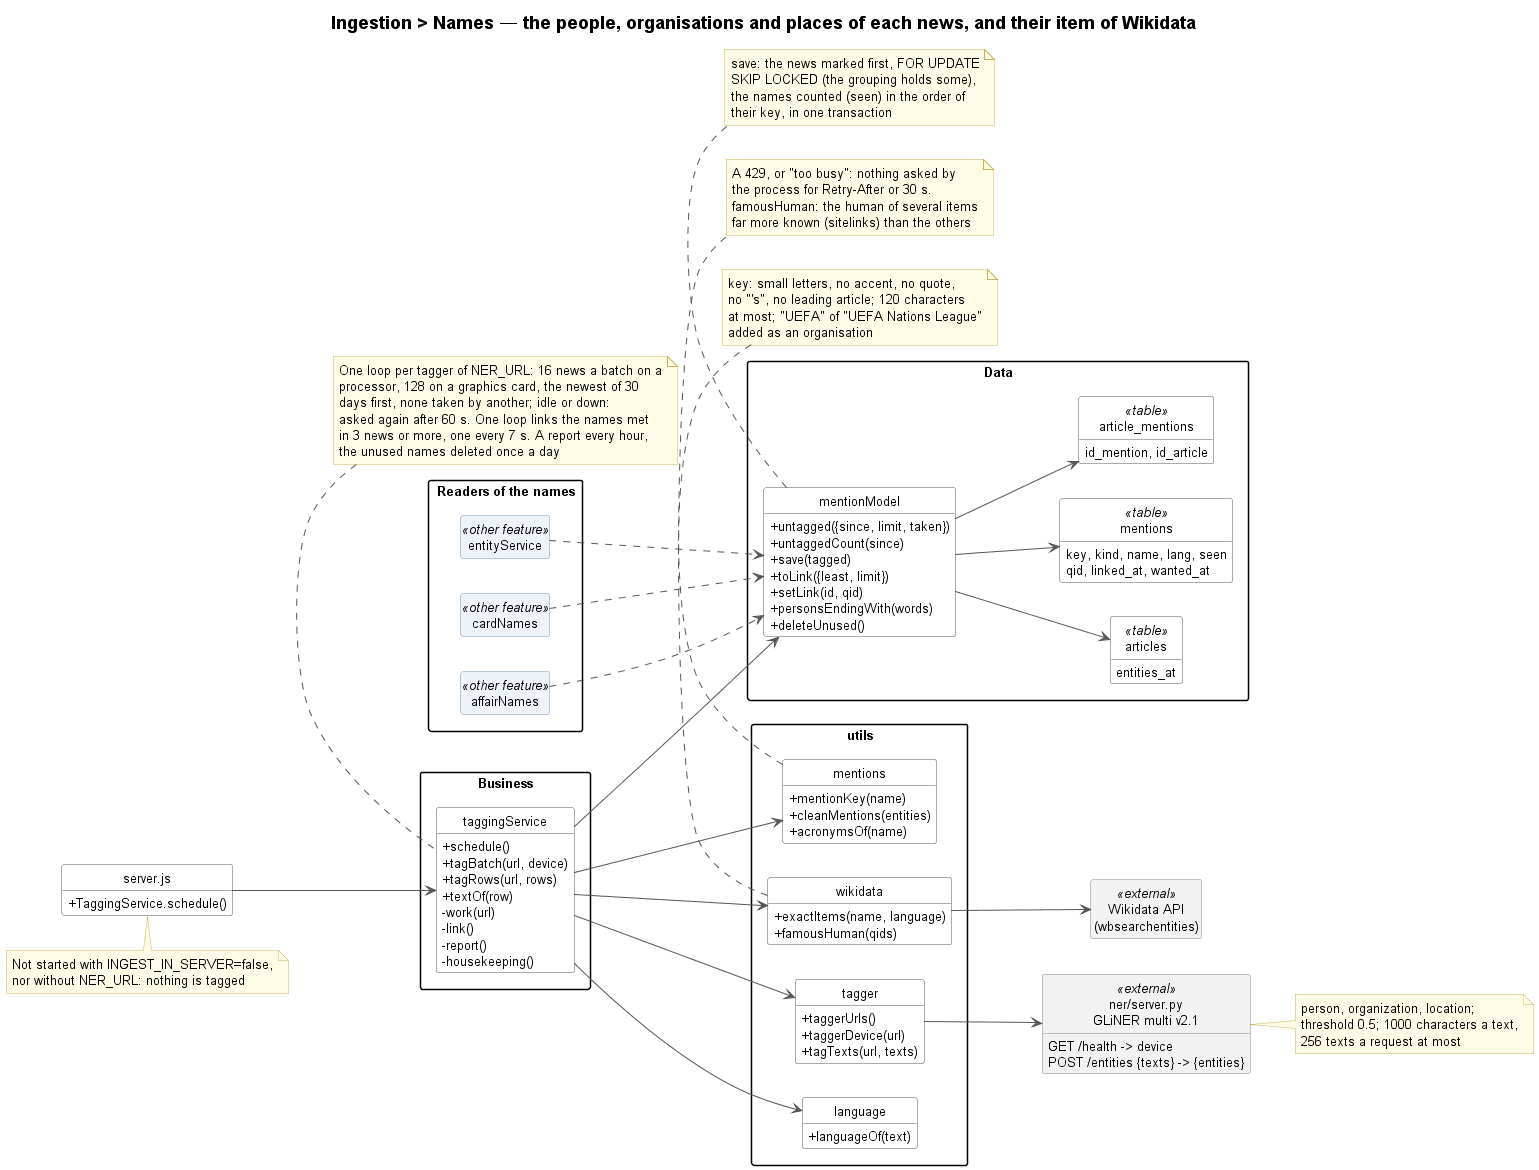
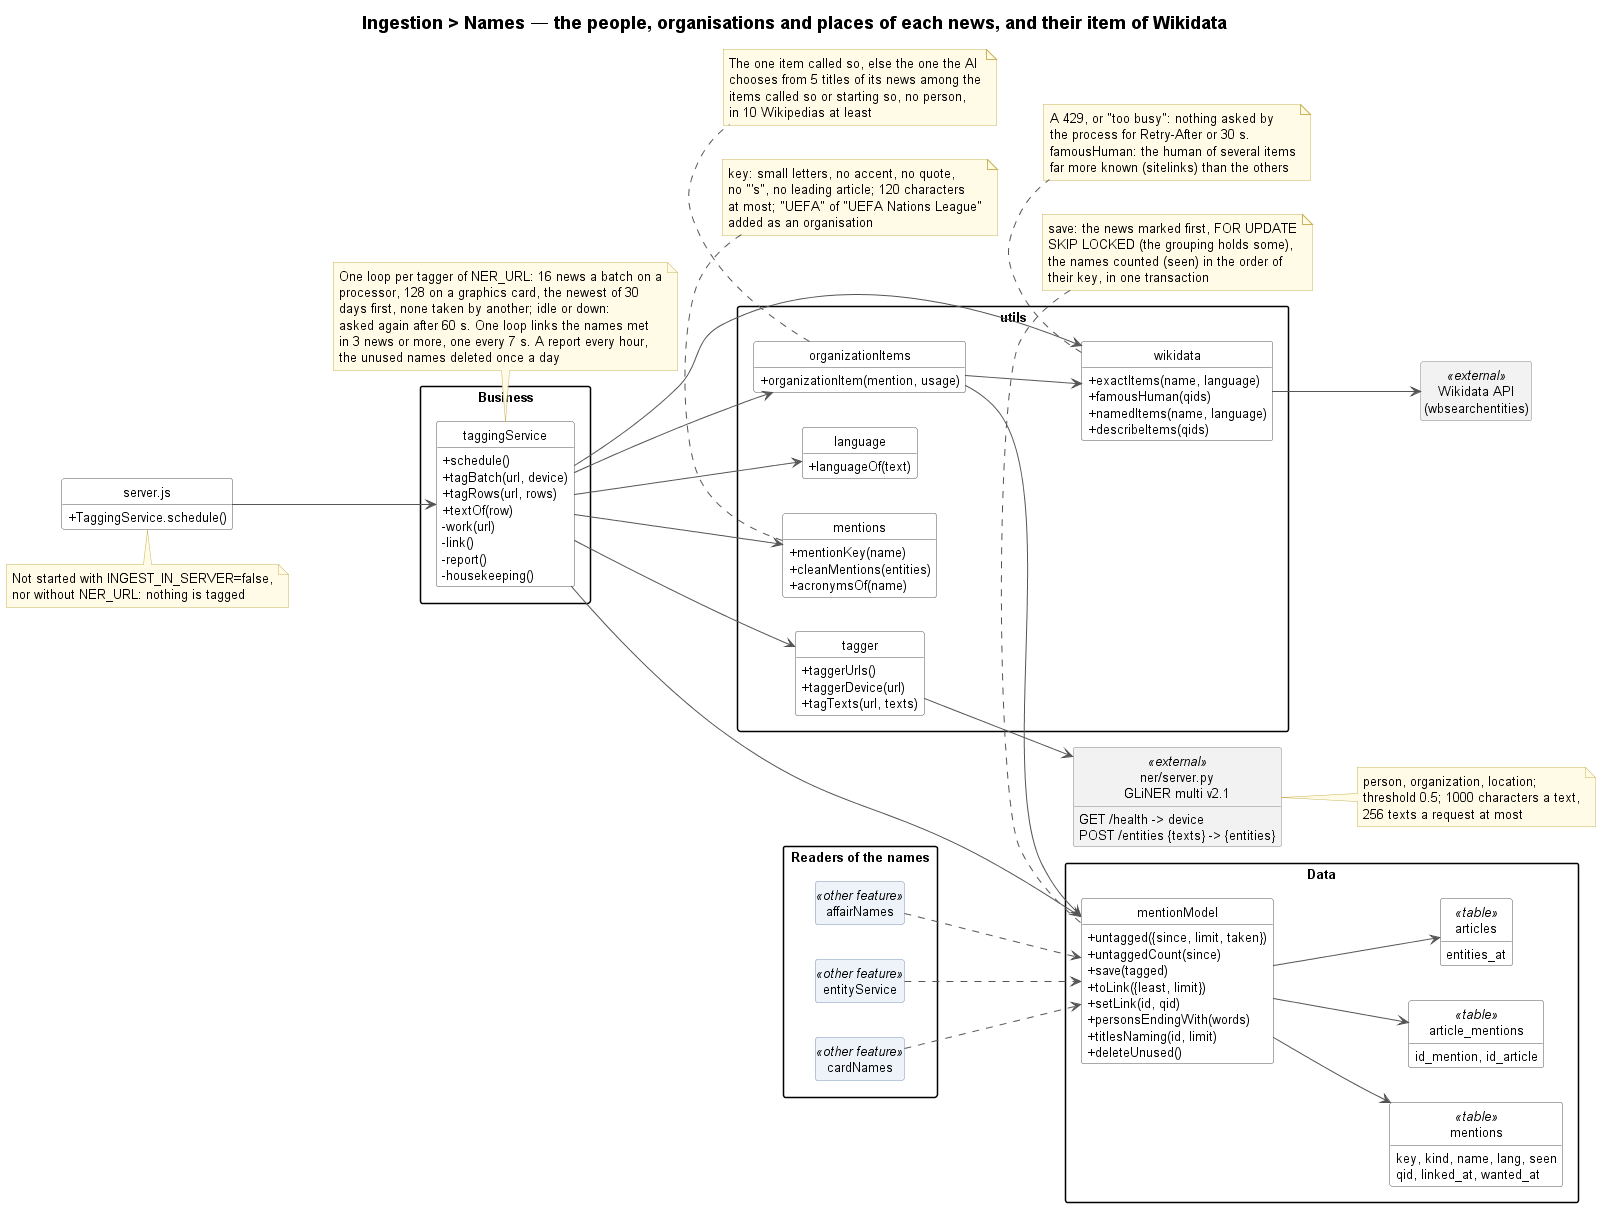
An organisation told apart by the AI among its namesakes of Wikidata
One item called so left FIFA, Juventus and Liverpool unlinked: the famous
club comes first under a longer name ("Juventus FC"), the city before it.
An organisation is now the one item called so, else the one the AI chooses
from 5 titles of news naming it among the items called so or whose name
starts so, no person, kept in 10 Wikipedias at least. On 60 organisations
never linked: 45 of 50 right, 44 of 46 with that floor. About 390 tokens a
name, counted in the hourly report of the tagger.

diff --git a/tests/entities/test.organization-items.js b/tests/entities/test.organization-items.js
@@ -1,0 +1,91 @@
+//
+//  Author: Fabian Rostello
+//  Date: 18.10.2026
+//  File: test.organization-items.js
+//  Description: The item of Wikidata an organisation is: the one called so when it is the only one, else
+//               the one the AI chooses from the titles of its news, in 10 Wikipedias at least
+//
+
+import {beforeEach, describe, expect, it, jest} from '@jest/globals';
+
+const namedItems = jest.fn();
+const describeItems = jest.fn();
+const ollamaJson = jest.fn();
+const titlesNaming = jest.fn(async () => ['Woltemade mit Juventus gegen Lazio', 'Juventus, Tudor: "Siamo in crescita"']);
+const wikidata = await import('../../services/utils/wikidata.js');
+jest.unstable_mockModule('../../config/db.js', () => ({prisma: {}}));
+jest.unstable_mockModule('../../services/utils/wikidata.js', () => ({...wikidata, namedItems, describeItems}));
+jest.unstable_mockModule('../../services/utils/ollama.js', () => ({ollamaJson, newUsage: () => ({calls: 0, input: 0, output: 0})}));
+jest.unstable_mockModule('../../models/mention-model.js', () => ({MentionModel: {titlesNaming}}));
+const {organizationItem, organizationPrompt} = await import('../../services/utils/organization-items.js');
+
+const row = {id: 7, name: 'Juventus', lang: 'it'};
+const JUVENTUS = [
+    {qid: 'Q1422', label: 'Juventus FC', description: 'association football club in Turin, Italy', links: 133, human: false},
+    {qid: 'Q63180', label: 'Kamil Glik', description: 'Polish association football player', links: 40, human: true},
+    {qid: 'Q1138834', label: 'Juventus', description: 'Lithuanian basketball team', links: 15, human: false},
+];
+
+beforeEach(() => {
+    namedItems.mockReset();
+    describeItems.mockReset();
+    ollamaJson.mockReset();
+    titlesNaming.mockClear();
+});
+
+describe('organizationItem', () => {
+    it('should take the one item called so without asking the AI', async () => {
+        namedItems.mockResolvedValueOnce([{qid: 'Q130879', exact: true}, {qid: 'Q9', exact: false}]);
+        expect(await organizationItem({id: 1, name: 'Reuters', lang: 'en'})).toBe('Q130879');
+        expect(describeItems).not.toHaveBeenCalled();
+        expect(ollamaJson).not.toHaveBeenCalled();
+    });
+
+    it('should let the AI choose among the items called so or starting so, no person among them', async () => {
+        namedItems.mockResolvedValueOnce([{qid: 'Q1422', exact: false}, {qid: 'Q63180', exact: true}, {qid: 'Q1138834', exact: true}]);
+        describeItems.mockResolvedValueOnce(JUVENTUS);
+        ollamaJson.mockResolvedValueOnce({n: 1});
+        expect(await organizationItem(row)).toBe('Q1422');
+        expect(namedItems).toHaveBeenCalledWith('Juventus', 'it');
+        expect(titlesNaming).toHaveBeenCalledWith(7, 5);
+        const prompt = ollamaJson.mock.calls[0][0];
+        expect(prompt).toContain('[1] Juventus FC: association football club in Turin, Italy (133 Wikipedias)');
+        expect(prompt).toContain('[2] Juventus: Lithuanian basketball team (15 Wikipedias)');
+        expect(prompt).not.toContain('Kamil Glik');
+        expect(prompt).toContain('- Woltemade mit Juventus gegen Lazio');
+    });
+
+    it('should take none when the AI cannot tell, chooses an item in few Wikipedias, or there is nothing to choose', async () => {
+        namedItems.mockResolvedValue([{qid: 'Q1422', exact: false}, {qid: 'Q1138834', exact: false}]);
+        describeItems.mockResolvedValue([JUVENTUS[0], {...JUVENTUS[2], links: 6}]);
+        ollamaJson.mockResolvedValueOnce({n: 0}).mockResolvedValueOnce({n: 2}).mockResolvedValueOnce({n: 9}).mockResolvedValueOnce(null);
+        for (let i = 0; i < 4; i++) expect(await organizationItem(row)).toBeNull();
+
+        ollamaJson.mockClear();
+        namedItems.mockResolvedValueOnce([]);
+        expect(await organizationItem(row)).toBeNull();
+        titlesNaming.mockResolvedValueOnce([]);
+        expect(await organizationItem(row)).toBeNull();
+        expect(ollamaJson).not.toHaveBeenCalled();
+    });
+
+    it('should tell the AI a part of many names is none of them', () => {
+        expect(organizationPrompt('FC', ['1860 gegen Bayern II'], [JUVENTUS[0]])).toContain('only a part of many names ("FC", "Club", "United")');
+    });
+});
+
+describe('namedItems', () => {
+    it('should keep the items called so or whose name starts so, in the order found, no page of a family name', async () => {
+        jest.restoreAllMocks();
+        const {namedItems: real} = wikidata;
+        const fetch = jest.spyOn(globalThis, 'fetch').mockResolvedValueOnce({ok: true, status: 200, headers: new Headers(), json: async () => ({search: [
+            {id: 'Q24826', label: 'Liverpool', match: {text: 'Liverpool'}},
+            {id: 'Q1130849', label: 'Liverpool F.C.', match: {text: 'Liverpool F.C.'}},
+            {id: 'Q37502389', label: 'Liverpool', description: 'family name', match: {text: 'Liverpool'}},
+            {id: 'Q99', label: 'Port of Liverpool', match: {text: 'Port of Liverpool'}},
+            {id: 'Q100', label: 'Liverpoolian', match: {text: 'Liverpoolian'}},
+        ]})});
+        expect(await real('Liverpool', 'en')).toEqual([{qid: 'Q24826', exact: true}, {qid: 'Q1130849', exact: false}]);
+        fetch.mockRestore();
+    });
+});

diff --git a/services/utils/wikidata.js b/services/utils/wikidata.js
@@ -65,6 +65,48 @@ const EXACT_FOUND = 10;
 export const exactItems = async (name, language = 'en') => {
     const key = mentionKey(name);
     if (key.length < 2) return [];
+    return [...new Set((await searchNamed(name, language))
+        .filter(item => mentionKey(item.match?.text ?? item.label) === key)
+        .map(item => item.id))];
+};
+
+// The items an organisation may be ("Juventus" is "Juventus FC", "Liverpool" "Liverpool F.C."): the ones
+// Wikidata finds called so or whose name starts so, in its order, [{qid, exact}], exact when called so.
+// The famous club comes first under a longer name, the city before it (18.10.2026)
+export const namedItems = async (name, language = 'en') => {
+    const key = mentionKey(name);
+    if (key.length < 2) return [];
+    const startsSo = (text) => {
+        const other = mentionKey(text);
+        return other === key || other.startsWith(`${key} `);
+    };
+    const found = new Map();
+    for (const item of await searchNamed(name, language)) {
+        if (found.has(item.id) || !(startsSo(item.match?.text ?? item.label) || startsSo(item.label ?? ''))) continue;
+        found.set(item.id, {qid: item.id, exact: mentionKey(item.match?.text ?? item.label) === key || mentionKey(item.label ?? '') === key});
+    }
+    return [...found.values()];
+};
+
+// [{qid, label, description, links, human}] of these items, in English: links the Wikipedias it is in,
+// human when it is one (P31 Q5); the ones Wikidata does not have left out
+export const describeItems = async (qids) => {
+    const asked = [...new Set(qids.filter(isQid))].slice(0, EXACT_FOUND);
+    if (asked.length === 0) return [];
+    const params = new URLSearchParams({action: 'wbgetentities', ids: asked.join('|'), props: 'labels|descriptions|claims|sitelinks',
+        languages: 'en', format: 'json'});
+    const entities = (await ask(`${API}?${params}`)).entities ?? {};
+    return asked.map(qid => entities[qid]).filter(item => item && item.missing === undefined).map(item => ({
+        qid: item.id,
+        label: item.labels?.en?.value ?? item.id,
+        description: item.descriptions?.en?.value ?? '',
+        links: Object.keys(item.sitelinks ?? {}).length,
+        human: (item.claims?.P31 ?? []).some(claim => claim.mainsnak?.datavalue?.value?.id === 'Q5'),
+    }));
+};
+
+// the items Wikidata finds for a name, pages of Wikimedia, of a family or given name aside, in its order
+const searchNamed = async (name, language) => {
     // searched in its language, described in English: NOT_NAMED reads English ("Čeferin", a news in
     // Slovenian, was linked to the family name, described "priimek", 13.10.2026)
     const search = async (code) => ask(`${API}?${new URLSearchParams({action: 'wbsearchentities', search: String(name).slice(0, 100),
@@ -77,10 +119,7 @@ export const exactItems = async (name, language = 'en') => {
         throw Object.assign(new Error('Wikidata asked to wait.'), {status: 502, paused: true});
     }
     if (answer.error) throw Object.assign(new Error(`Wikidata refused the search (${answer.error.code}).`), {status: 502});
-    return [...new Set((answer.search ?? [])
-        .filter(item => isQid(item.id) && !NOT_NAMED.test(item.description ?? '')
-            && mentionKey(item.match?.text ?? item.label) === key)
-        .map(item => item.id))];
+    return (answer.search ?? []).filter(item => isQid(item.id) && !NOT_NAMED.test(item.description ?? ''));
 };
 
 // A person named as several items are: the one of them who is a human (P31 Q5) and is in far more

diff --git a/services/tagging-service.js b/services/tagging-service.js
@@ -15,6 +15,8 @@ import {taggerDevice, taggerUrls, tagTexts} from "./utils/tagger.js";
 import {cleanMentions} from "./utils/mentions.js";
 import {languageOf} from "./utils/language.js";
 import {exactItems, famousHuman} from "./utils/wikidata.js";
+import {organizationItem} from "./utils/organization-items.js";
+import {newUsage} from "./utils/ollama.js";
 
 // Each tagger of NER_URL works on its own, the newest news first, none taken by another: the
 // processor of the server (2.2 news a second on 3 cores, 13.10.2026) keeps up with the news of the
@@ -108,11 +110,15 @@ const work = async (url) => {
     }
 };
 
+// the tokens the AI took to tell organisations apart since the last report
+let linkUsage = newUsage();
+
 // The names looked for in Wikidata, one at a time, the ones a reader saw first (on a card, the page of
 // a name: see MentionModel.want), then the most met: linked when one item only is called so, or, for a
 // person, when one of the humans called so is far more known than the others (see famousHuman: one item
 // only left 1 186 of 2 130 persons met 100 times or more unlinked, Donald Trump and Messi among them,
-// 18.10.2026)
+// 18.10.2026). An organisation is the one item called so, else the one the AI chooses among the items
+// called so or whose name starts so (see organization-items.js)
 const link = async () => {
     for (;;) {
         let rows = [];
@@ -127,9 +133,12 @@ const link = async () => {
         }
         for (const row of rows) {
             try {
-                const qids = await exactItems(row.name, row.lang ?? 'en');
-                const qid = qids.length === 1 ? qids[0]
-                    : qids.length > 1 && row.kind === 'person' ? await famousHuman(qids) : null;
+                let qid = null;
+                if (row.kind === 'organization') qid = await organizationItem(row, linkUsage);
+                else {
+                    const qids = await exactItems(row.name, row.lang ?? 'en');
+                    qid = qids.length === 1 ? qids[0] : qids.length > 1 && row.kind === 'person' ? await famousHuman(qids) : null;
+                }
                 await MentionModel.setLink(row.id, qid);
             } catch (err) {
                 // refused (429): wikidata.js waits the time asked before the next one
@@ -147,8 +156,10 @@ const report = async () => {
         try {
             const waiting = await MentionModel.untaggedCount(new Date(Date.now() - TAG_DAYS * 24 * 3600e3));
             const done = [...taggers].map(([url, state]) => `${url} ${state.tagged}`).join(', ');
-            console.log(`Tagger: in ${REPORT_MINUTES} min tagged ${done}; ${waiting} news of the last ${TAG_DAYS} days left`);
+            console.log(`Tagger: in ${REPORT_MINUTES} min tagged ${done}; ${waiting} news of the last ${TAG_DAYS} days left`
+                + `; organisations told apart by the AI: ${linkUsage.calls} calls, ${linkUsage.input + linkUsage.output} tokens`);
             taggers.forEach(state => { state.tagged = 0; });
+            linkUsage = newUsage();
         } catch (err) {
             console.error(`Tagger: nothing reported (${err.message})`);
         }

diff --git a/services/utils/organization-items.js b/services/utils/organization-items.js
@@ -1,0 +1,51 @@
+//
+//  Author: Fabian Rostello
+//  Date: 18.10.2026
+//  File: organization-items.js
+//  Description: The item of Wikidata an organisation the news name is: the one called so when it is the
+//               only one, else the one the AI chooses among the items called so or whose name starts so,
+//               from the titles of news naming it
+//
+
+"use strict"
+
+import {describeItems, namedItems} from './wikidata.js';
+import {ollamaJson} from './ollama.js';
+import {MentionModel} from '../../models/mention-model.js';
+
+// Measured on 60 organisations often met and never linked (18.10.2026): one item called so left FIFA (an
+// album, a song of the same name), Juventus ("Juventus FC"), Liverpool (the city first) unlinked. Told
+// apart by their Wikipedias, ~80% right (Roma the HBO series); by the closeness of their description to
+// the news, 7 of 16. The AI chose 50 times, 45 right; keeping the items in MIN_SITELINKS Wikipedias at
+// least, 44 of 46 (a PSG omnisport club in 4, the women's team of Como 1907 in 6 left out), about 390
+// tokens a name
+export const MIN_SITELINKS = 10;
+const TITLES = 5;
+
+export const organizationPrompt = (name, titles, items) => `A name in the news: "${name}".
+
+Titles of news naming it:
+${titles.map(title => `- ${title}`).join('\n')}
+
+Items of Wikidata called so:
+${items.map((item, i) => `[${i + 1}] ${item.label}: ${item.description || '(no description)'} (${item.links} Wikipedias)`).join('\n')}
+
+Which item is the "${name}" these news name? Only when you are sure from the titles: a club, a company, a
+league, a body these news are about. 0 when none of them is, when you cannot tell, or when the name is
+only a part of many names ("FC", "Club", "United").
+Answer in JSON only: {"n": 0}`;
+
+// the qid of an organisation ({id, name, lang} of mentions), null when none can be told; usage: the
+// tokens the AI took, counted in it
+export const organizationItem = async ({id, name, lang}, usage = null) => {
+    const found = await namedItems(name, lang ?? 'en');
+    const exact = found.filter(item => item.exact);
+    if (exact.length === 1) return exact[0].qid;
+    if (found.length === 0) return null;
+    const items = (await describeItems(found.map(item => item.qid))).filter(item => !item.human);
+    const titles = items.length === 0 ? [] : await MentionModel.titlesNaming(id, TITLES);
+    if (titles.length === 0) return null;
+    const answer = await ollamaJson(organizationPrompt(name, titles, items), usage);
+    const chosen = items[Number(answer?.n) - 1];
+    return chosen && chosen.links >= MIN_SITELINKS ? chosen.qid : null;
+};

diff --git a/models/mention-model.js b/models/mention-model.js
@@ -105,6 +105,14 @@ export const MentionModel = {
         GROUP BY w.word, m.qid
         ORDER BY w.word, seen DESC`, words),
 
+    // [title]: the titles of the newest news naming this name, each title once, 'limit' at most: what the
+    // AI reads to tell which item an organisation is (see organization-items.js)
+    titlesNaming: async (id, limit) => (await prisma.$queryRawUnsafe(`
+        SELECT title FROM (
+            SELECT DISTINCT ON (a.title) a.title, a.id FROM article_mentions am JOIN articles a ON a.id = am.id_article
+            WHERE am.id_mention = $1 AND a.title IS NOT NULL ORDER BY a.title, a.id DESC LIMIT 200
+        ) t ORDER BY id DESC LIMIT $2`, id, limit)).map(row => row.title),
+
     // the item of Wikidata a name is, null when none or several are called so: looked for now
     setLink: async (id, qid) => prisma.$executeRawUnsafe(`
         UPDATE mentions SET qid = $2, linked_at = now() WHERE id = $1`, id, qid),

diff --git a/docs/ingestion/names/README.md b/docs/ingestion/names/README.md
@@ -42,7 +42,11 @@ what finds the other angles of a card through its rare names.
   when none or several ("LFF" of Latvia and of Lithuania). Since 18.10.2026 a person named as several items are
   is the human among them (P31 Q5) in far more Wikipedias than the others (`famousHuman`: 30 at least, 3 times
   the next one; with 10, the byline "Mohammed Ibrahim" became Mo Ibrahim, a businessman in 20): "Donald Trump" is no song, "David Beckham" no Canadian candidate; "Michael Oliver", the
-  referee among 9, stays unlinked. One name every 7 s (`LINK_PAUSE_MS`); nothing left:
+  referee among 9, stays unlinked. An organisation (`organizationItem`, `services/utils/organization-items.js`)
+  is the one item called so; else the AI (gemma4:31b, 5 titles of news naming it, `titlesNaming`) chooses among
+  the items called so or whose name starts so (`namedItems`: "Juventus" is "Juventus FC", "Liverpool"
+  "Liverpool F.C.", the city coming first), no person among them (`describeItems`), or none; kept when the item
+  is in 10 Wikipedias at least. About 390 tokens a name, counted in the hourly report of the tagger. One name every 7 s (`LINK_PAUSE_MS`); nothing left:
   10 minutes. A 429 or "too busy" pauses every call of the process to Wikidata for `Retry-After` or 30 s.
 - **A family name alone** on a card (`withSurnamesLinked`, `services/utils/card-names.js`, since 18.10.2026):
   "Infantino" is no item of Wikidata (a family name, a village, a page of namesakes). It is the person linked
@@ -70,7 +74,10 @@ what finds the other angles of a card through its rare names.
   called so left out the famous ones, who have the most namesakes (FIFA: an album and a song of Angélique
   Kidjo; Manchester City: its women's team). On 40 of them never linked, the persons told apart by
   `famousHuman` were 4 out of 4 right; the organisations by their Wikipedias only 9 out of 14 (Liverpool and
-  Roma the cities, Juventus a basketball team): not used for them.
+  Roma the cities, Juventus a basketball team), by their description against their news 7 out of 16: the AI
+  chose 50 times, 45 right, 44 out of 46 kept in 10 Wikipedias or more (a PSG omnisport club in 4, the
+  women's team of Como 1907 in 6 left out). Live: Juventus, Liverpool, FIFA linked; Roma (AS Roma is no
+  candidate), "FC" and Real Madrid (news of its basketball team) none.
 - Wikidata without an account let 9 or 10 searches through then answered 429 for 12 to 25 s; one every 6.5 s
   went through 30 times in a row (13.10.2026): one every 7 s, about 12,000 names a day, for about 150,000
   waiting.
